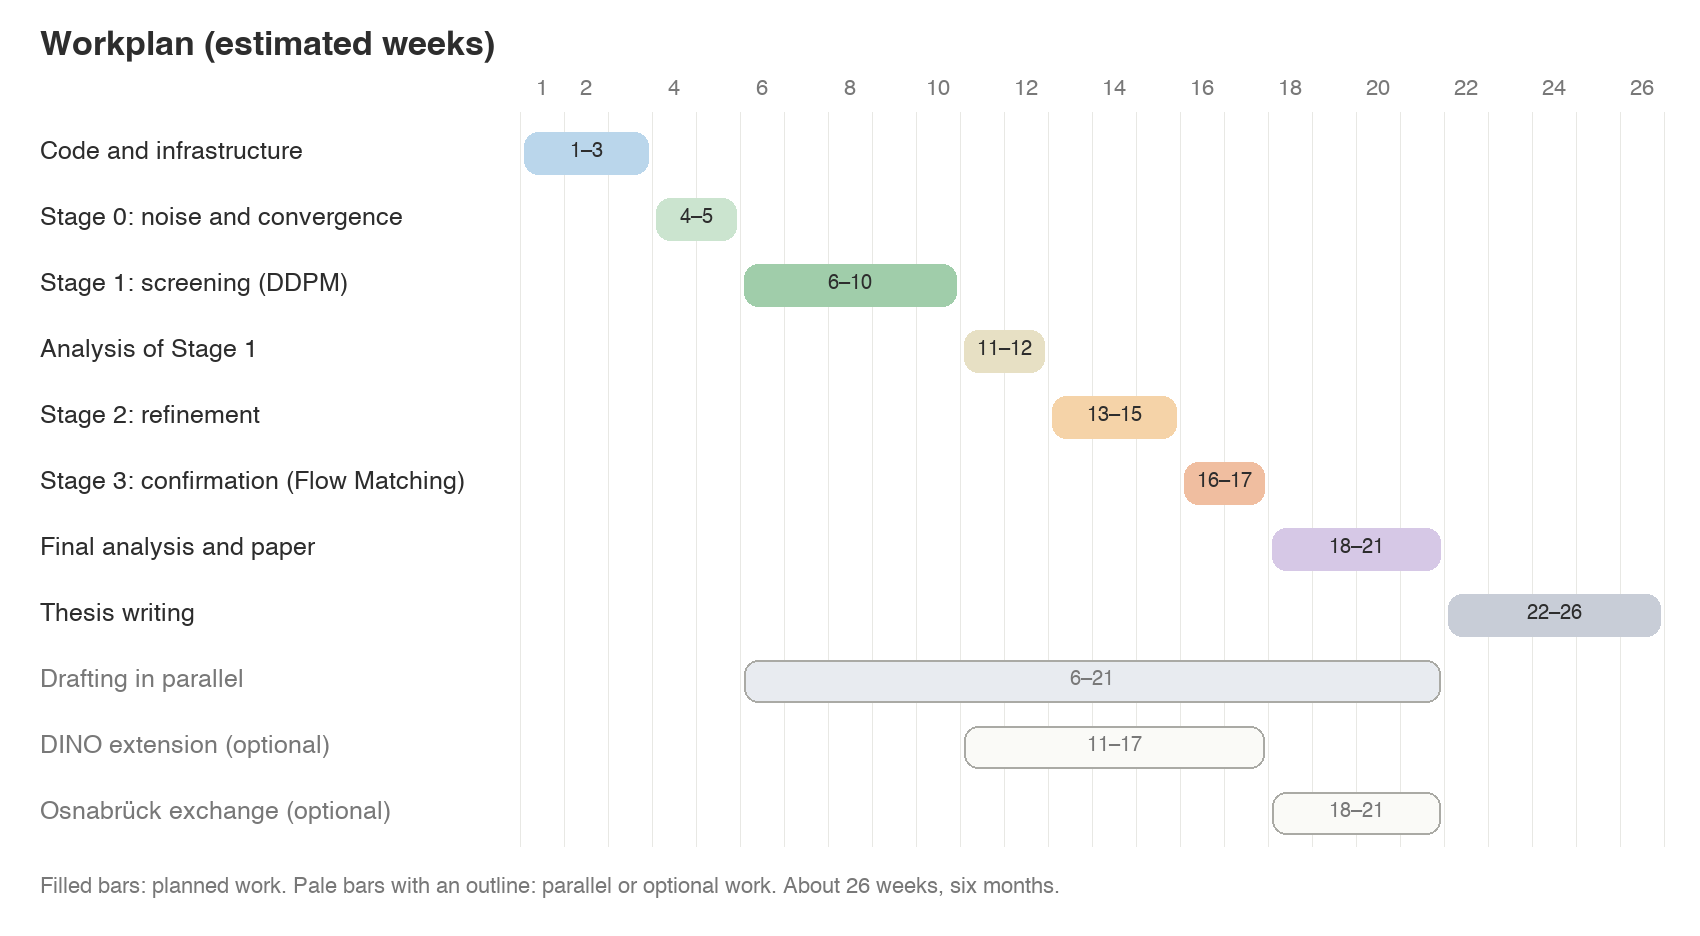
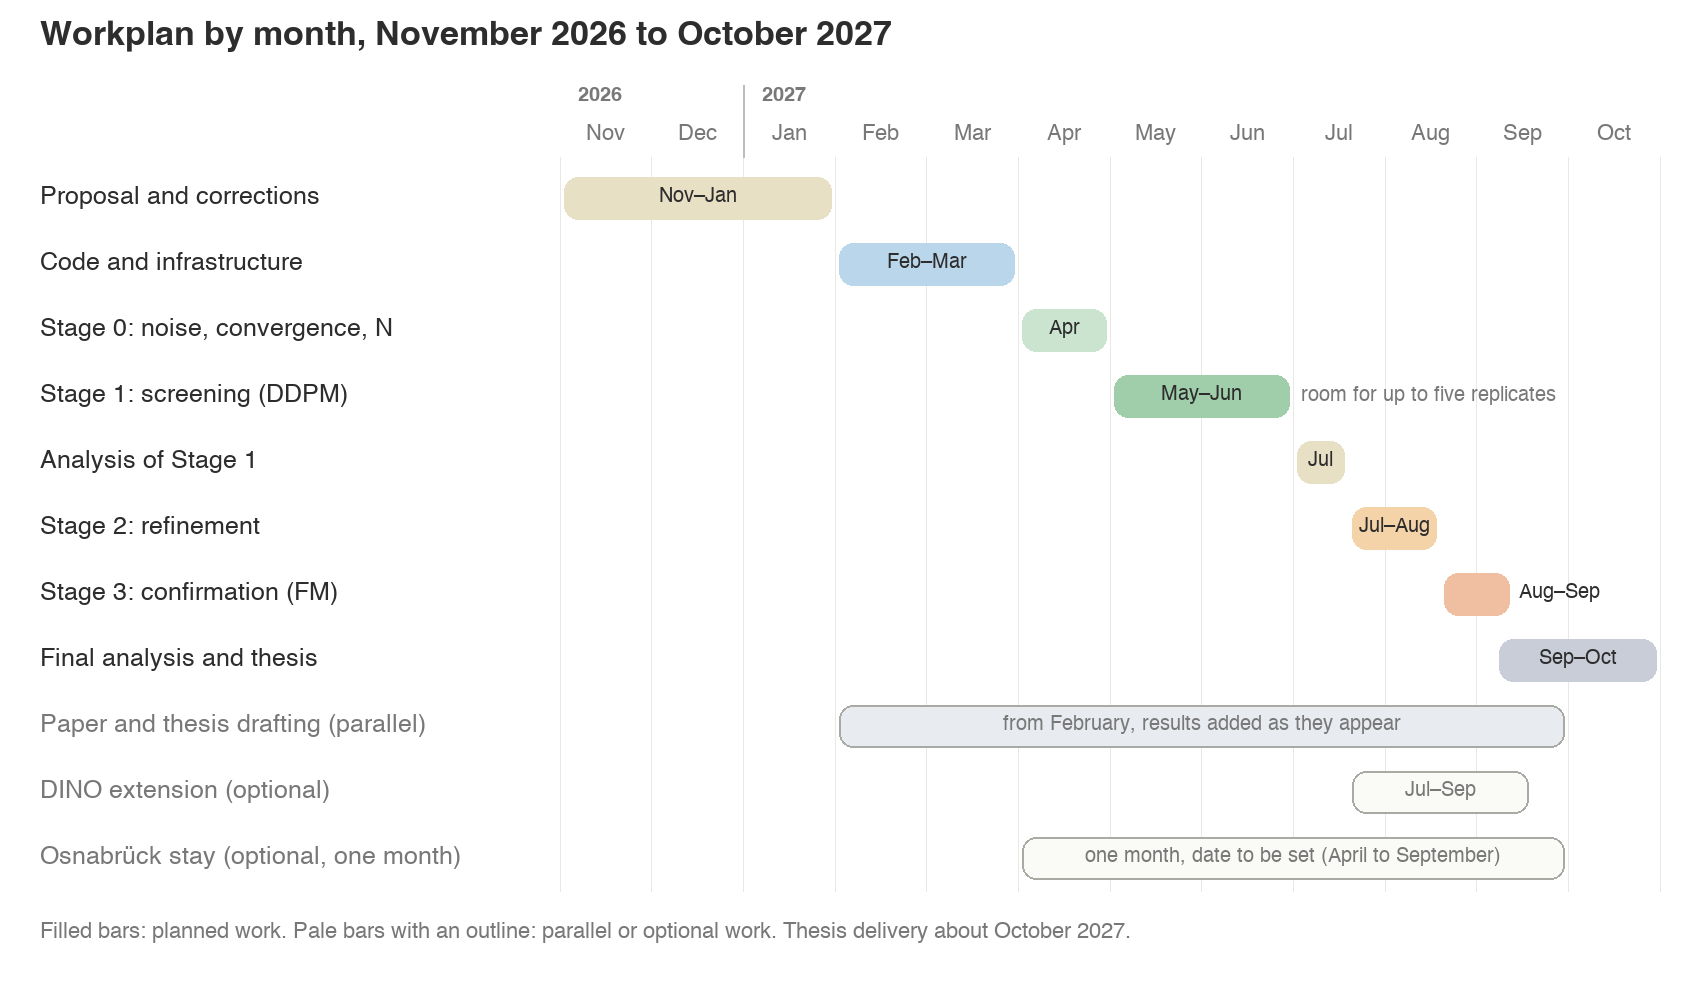
Gantt updated
New Gantt accordingly with 1 year

diff --git a/docs/s2/draw_gantt.py b/docs/s2/draw_gantt.py
@@ -1,35 +1,57 @@
-"""Soft Gantt chart of the workplan (weeks, no calendar dates). Output: Imagenes/gantt_workplan.png"""
+"""Gantt chart of the workplan by calendar month, November 2026 to October 2027. Run from the repository root.
+Output: Imagenes/gantt_workplan.png and docs/gantt_workplan.png"""
 from PIL import Image, ImageDraw, ImageFont
 H = "/System/Library/Fonts/Helvetica.ttc"
 F = lambda s, i=0: ImageFont.truetype(H, s, index=i)
 INK, MUT, GRID = (45, 45, 45), (120, 120, 120), (232, 232, 228)
 PAL = {"code": (186, 214, 235), "s0": (203, 228, 207), "s1": (160, 205, 170), "an": (231, 224, 196),
        "s2": (245, 211, 168), "s3": (240, 190, 160), "pap": (214, 200, 230), "wr": (200, 205, 215), "opt": (240, 240, 236)}
-ROWS = [("Code and infrastructure", 1, 3, "code", False), ("Stage 0: noise and convergence", 4, 5, "s0", False),
-        ("Stage 1: screening (DDPM)", 6, 10, "s1", False), ("Analysis of Stage 1", 11, 12, "an", False),
-        ("Stage 2: refinement", 13, 15, "s2", False), ("Stage 3: confirmation (Flow Matching)", 16, 17, "s3", False),
-        ("Final analysis and paper", 18, 21, "pap", False), ("Thesis writing", 22, 26, "wr", False),
-        ("Drafting in parallel", 6, 21, "wr", True), ("DINO extension (optional)", 11, 17, "opt", True),
-        ("Osnabrück exchange (optional)", 18, 21, "opt", True)]
-W, LEFT, TOP, RH, WK = 1700, 520, 120, 66, 44
+MONTHS = ["Nov", "Dec", "Jan", "Feb", "Mar", "Apr", "May", "Jun", "Jul", "Aug", "Sep", "Oct"]
+# (name, start, end, color key, soft, label); start and end in months counted from 1 November 2026
+ROWS = [("Proposal and corrections", 0, 3, "an", False, "Nov–Jan"),
+        ("Code and infrastructure", 3, 5, "code", False, "Feb–Mar"),
+        ("Stage 0: noise, convergence, N", 5, 6, "s0", False, "Apr"),
+        ("Stage 1: screening (DDPM)", 6, 8, "s1", False, "May–Jun", "room for up to five replicates"),
+        ("Analysis of Stage 1", 8, 8.6, "an", False, "Jul"),
+        ("Stage 2: refinement", 8.6, 9.6, "s2", False, "Jul–Aug"),
+        ("Stage 3: confirmation (FM)", 9.6, 10.4, "s3", False, "Aug–Sep", ""),
+        ("Final analysis and thesis", 10.2, 12, "wr", False, "Sep–Oct"),
+        ("Paper and thesis drafting (parallel)", 3, 11, "wr", True, "from February, results added as they appear"),
+        ("DINO extension (optional)", 8.6, 10.6, "opt", True, "Jul–Sep"),
+        ("Osnabrück stay (optional, one month)", 5, 11, "opt", True, "one month, date to be set (April to September)")]
+ROWS = [r if len(r) == 7 else r + ("",) for r in ROWS]
+W, LEFT, TOP, RH = 1700, 560, 165, 66
+MW = (W - LEFT - 40) / 12
 HGT = TOP + RH * len(ROWS) + 90
 im = Image.new("RGB", (W, HGT), (255, 255, 255)); d = ImageDraw.Draw(im)
-d.text((40, 28), "Workplan (estimated weeks)", fill=INK, font=F(34, 1))
-for w in range(1, 27):
-    x = LEFT + (w - 1) * WK
+d.text((40, 18), "Workplan by month, November 2026 to October 2027", fill=INK, font=F(34, 1))
+for m in range(13):
+    x = LEFT + m * MW
     d.line([x, TOP - 8, x, TOP + RH * len(ROWS)], fill=GRID, width=1)
-    if w == 1 or w % 2 == 0:
-        t = str(w); d.text((x + WK / 2 - d.textlength(t, font=F(22)) / 2, TOP - 42), t, fill=MUT, font=F(22))
-d.line([LEFT + 26 * WK, TOP - 8, LEFT + 26 * WK, TOP + RH * len(ROWS)], fill=GRID, width=1)
-for i, (name, a, b, key, soft) in enumerate(ROWS):
+for m, name in enumerate(MONTHS):
+    x = LEFT + m * MW
+    d.text((x + MW / 2 - d.textlength(name, font=F(22)) / 2, TOP - 42), name, fill=MUT, font=F(22))
+d.text((LEFT + 0.2 * MW, TOP - 80), "2026", fill=MUT, font=F(20, 1))
+d.text((LEFT + 2.2 * MW, TOP - 80), "2027", fill=MUT, font=F(20, 1))
+d.line([LEFT + 2 * MW, TOP - 80, LEFT + 2 * MW, TOP - 8], fill=(190, 190, 185), width=2)
+for i, (name, a, b, key, soft, lab, note) in enumerate(ROWS):
     y = TOP + i * RH
     d.text((40, y + RH / 2 - 14), name, fill=INK if not soft else MUT, font=F(25))
-    x1, x2 = LEFT + (a - 1) * WK + 4, LEFT + b * WK - 4
+    x1, x2 = LEFT + a * MW + 4, LEFT + b * MW - 4
     box = [x1, y + 12, x2, y + RH - 12]
     if soft:
         d.rounded_rectangle(box, radius=14, fill=(250, 250, 247) if key == "opt" else (232, 235, 240), outline=(170, 170, 165), width=2)
     else:
         d.rounded_rectangle(box, radius=14, fill=PAL[key])
-    lab = f"{a}–{b}"; d.text(((x1 + x2) / 2 - d.textlength(lab, font=F(20)) / 2, y + RH / 2 - 12), lab, fill=INK if not soft else MUT, font=F(20))
-d.text((40, TOP + RH * len(ROWS) + 30), "Filled bars: planned work. Pale bars with an outline: parallel or optional work. About 26 weeks, six months.", fill=MUT, font=F(22))
+    size = 20
+    while d.textlength(lab, font=F(size)) > (x2 - x1) - 12 and size > 16:
+        size -= 1
+    f = F(size)
+    if d.textlength(lab, font=f) > (x2 - x1) - 12:
+        d.text((x2 + 10, y + RH / 2 - 12), lab, fill=INK if not soft else MUT, font=F(20))
+    else:
+        d.text(((x1 + x2) / 2 - d.textlength(lab, font=f) / 2, y + RH / 2 - size / 2 - 2), lab, fill=INK if not soft else MUT, font=f)
+    if note:
+        d.text((x2 + 12, y + RH / 2 - 11), note, fill=MUT, font=F(20))
+d.text((40, TOP + RH * len(ROWS) + 30), "Filled bars: planned work. Pale bars with an outline: parallel or optional work. Thesis delivery about October 2027.", fill=MUT, font=F(22))
 im.save("Imagenes/gantt_workplan.png", dpi=(200, 200)); im.save("docs/gantt_workplan.png", dpi=(200, 200)); print("ok", im.size)
